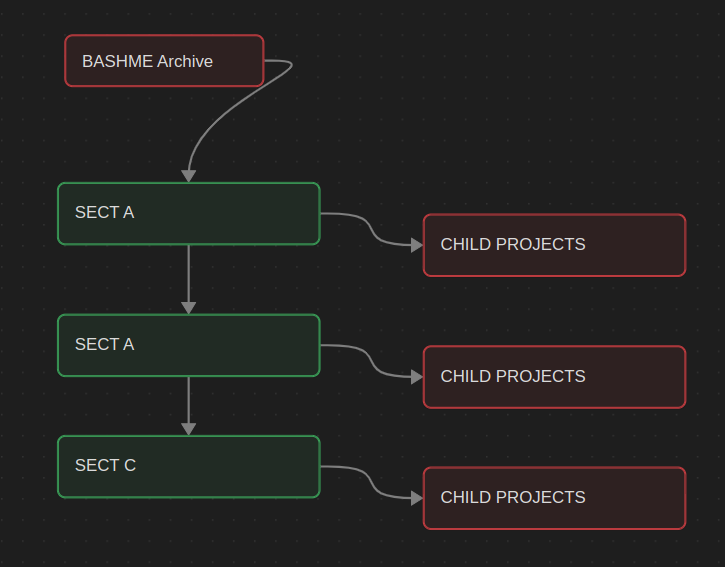
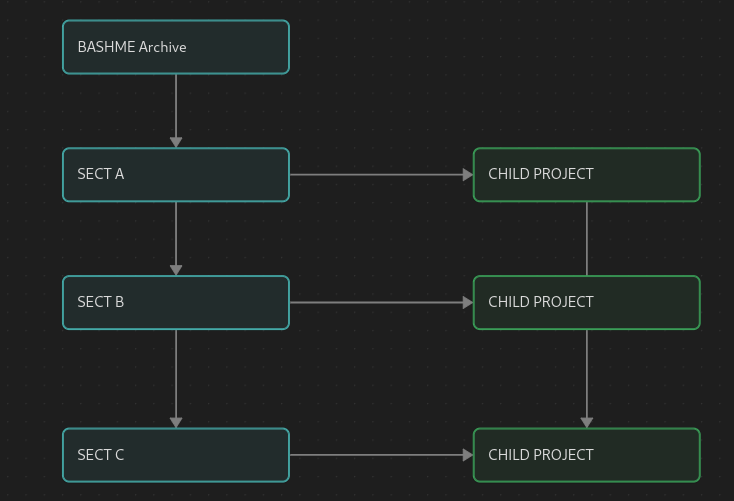
feat: improve script logic and some other changes (#1)

diff --git a/SECT B/backupSys/README.MD b/SECT B/backupSys/README.MD
@@ -1,0 +1,6 @@
+This is a backup and archival system script built with Bash to  address all this issues:
+
+1. Data Correctness — Uses SHA256 checksums to verify backups match originals, atomic file operations (temp files), and comprehensive logging of all file metadata
+
+![Diagram Image](/assets/Backup%20System.png)_
+
